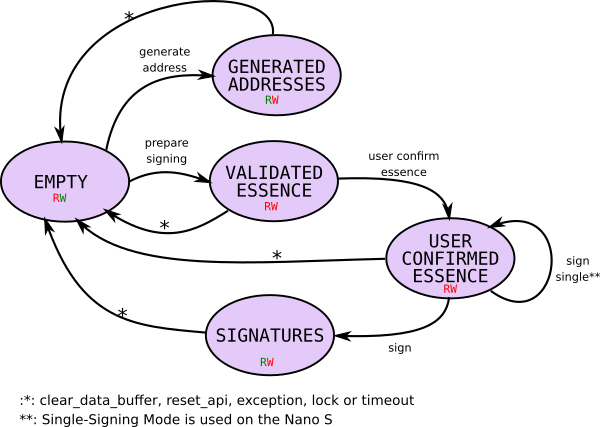
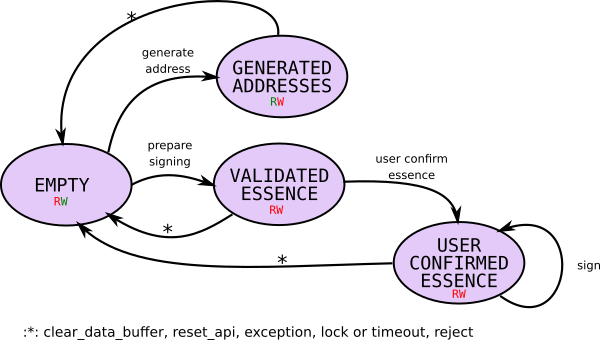
updated APDU specification

diff --git a/docs/specification_chrysalis.md b/docs/specification_chrysalis.md
@@ -1,4 +1,4 @@
-# IOTA Chrysalis App for Ledger Nano S/X Hardware Wallets
+# IOTA Chrysalis/Stardust App for Ledger Nano S(+)/X Hardware Wallets
 
 ## Date Buffer States
 
@@ -68,9 +68,16 @@ Returns information about the App and the Device.
 | `app_version_major` | 1 | Major version number  |  
 | `app_version_minor` | 1 | Minor version number  |  
 | `app_version_patch` | 1 | Patch level  | 
-| `app_flags` | 1 | unused  | 
-| `device` | 1 | 0: Nano S <br />1: Nano X |
+| `app_flags` | 1 | Flags  | 
+| `device` | 1 | 0: Nano S <br />1: Nano X <br/> 2: Nano S Plus |
 | `debug`| 1 | 0: Not compiled in debug mode<br /> 1: compiled in debug mode|
+
+Flags:
+| Bit | Function |
+|-----|----------|
+| 0 | Ledger locked |
+| 1 | Blindsigning enabled (only Stardust) |
+| 2 | App (0: IOTA, 1: Shimmer) |
 
 **Errors**: \-
 
@@ -91,6 +98,16 @@ All private keys are derived from the bip32-path `2c'/107a'/address'/change'/ind
 | Field | Bytes | Description |
 |-------------------|---|---|
 | `account` | 4 | Hardened BIP32 account index  |  
+| `p1` | 1 | App mode |
+
+App-Mode:
+
+| Mode | Coin Type | Function |
+|-|-|-|
+| 0x00 | 0x107a | IOTA + Chrysalis (default, backwards compatible) |
+| 0x80 |    0x1 | IOTA + Chrysalis Testnet |
+| 0x01 | 0x107a | IOTA + Stardust |
+| 0x81 |    0x1 | IOTA + Stardust Testnet |
 
 **Response**: \-
 
@@ -174,7 +191,7 @@ Reads a block of data from the data buffer. Reading only is allowed if the data 
 
 | Parameter | Description |
 |-------|-------------|
-|`p0` | number of block to be read
+|`p1` | number of block to be read
 
 
 **Request**: \-
@@ -225,7 +242,7 @@ Shows a flow on the UI. This instruction is for showing informative screens on t
 
 | Parameter | Description |
 |-------|-------------|
-|`p0` | 0: `FLOW_MAIN_MENU` <br/> 1: `FLOW_GENERATING_ADDRESSES` <br/> 2: `FLOW_GENERIC_ERROR` <br/> 3: `FLOW_REJECTED` <br/> 4: `FLOW_SIGNED_SUCCESSFULLY` <br/> 5: `FLOW_SIGNING`
+|`p1` | 0: `FLOW_MAIN_MENU` <br/> 1: `FLOW_GENERATING_ADDRESSES` <br/> 2: `FLOW_GENERIC_ERROR` <br/> 3: `FLOW_REJECTED` <br/> 4: `FLOW_SIGNED_SUCCESSFULLY` <br/> 5: `FLOW_SIGNING`
 
 
 **Request**: \-
@@ -241,7 +258,7 @@ Shows a flow on the UI. This instruction is for showing informative screens on t
 ---
 #### 0xa0 - Prepare Signing
 
-Prepare signing in single-signing or normal signing mode. The former should be used for the Nano S (needs less memory), the latter should be used for the Nano X (is faster). It is not enforced to use the one or another depending on the device the app is compiled for. 
+Prepare signing parses and validates the uploaded essence for a following signing call.
 
 In additionally to the essence also an array of input BIP32 indices (consisting of 32bit BIP32-index and 32bit BIP32-Change per input) is needed. The size of the essence is determined by the data and is calculated during validation. The array of input indices is directly appended after.  
 
@@ -253,8 +270,8 @@ In additionally to the essence also an array of input BIP32 indices (consisting 
 
 | Parameter | Description |
 |-------|-------------|
-|`p0` | 0: not prepare for single signing<br/>1: prepare for single signing
-|`p1` | 0: Essence doesn't have an Remainder<br/>1: Essence has an Remainder
+|`p1` | (set to 1, compatibility)
+|`p2` | 0: Essence doesn't have an Remainder<br/>1: Essence has an Remainder
 
 **Request**: 
 
@@ -280,7 +297,7 @@ In additionally to the essence also an array of input BIP32 indices (consisting 
 ---
 #### 0xa1 - Generate Address
 
-Generates addresses. If `p0` is set, the new address is shown to the user on the UI. In this mode, the data buffer states switches to `GENERATED_ADDRESSES` when the user confirmed the new address and only one single address is allowed to generate (for Remainder addresses). 
+Generates addresses. If `p1` is set, the new address is shown to the user on the UI. In this mode, the data buffer states switches to `GENERATED_ADDRESSES` when the user confirmed the new address and only one single address is allowed to generate (for Remainder addresses). 
 
 The addresses are saved (including the ED25519 address type) in the data buffer one after another.
 
@@ -292,7 +309,7 @@ The addresses are saved (including the ED25519 address type) in the data buffer 
 
 | Parameter | Description |
 |-------|-------------|
-|`p0` | 0: don't show to the user as interactive flow<br/>1: show to the user as interactive flow (for Remainders).
+|`p1` | 0: don't show to the user as interactive flow<br/>1: show to the user as interactive flow (for Remainders).
 
 **Request**: 
 
@@ -314,29 +331,6 @@ The addresses are saved (including the ED25519 address type) in the data buffer 
 |`SW_INCORRECT_LENGTH`| request data has unexpected size
 |`SW_COMMAND_INVALID_DATA`|too many addresses to generate, `show_on_screen` set but more than one address to generate, invalid BIP32 index or BIP32 index would wrap around during generation|
 |`SW_COMMAND_TIMEOUT`| Timeout happened in interactive mode
-
----
-#### 0xa2 - Sign
-
-Sign the essence in normal signing mode. In this mode, the signatures are temporarily appended at the end of the input indices in the data buffer but are copied to the start of the data buffer after signing. This is faster (less API calls) but needs more RAM and only is recommended for the Nano X. The Nano S should use single signing mode. 
-
-
-**Preconditions**: `USER_CONFIRMED_ESSENCE`
-
-**After**: `SIGNATURES`
-
-**Parameters**: \-
-
-**Request**: \-
-
-**Response**: \-
-
-**Errors**: 
-
-| Error | Description |
-|-------|-------------|
-|`SW_COMMAND_NOT_ALLOWED`|data buffer state is not `USER_CONFIRMED_ESSENCE`.|
-|`SW_UNKNOWN`|some basic validation checks failed although validated prior by `Prepare Signing` or there was an unknown error during signing
 
 ---
 #### 0xa3 - User Confirm Essence
@@ -365,7 +359,8 @@ Presents the validated and parsed essence in clear way on the UI and asks the us
 ---
 #### 0xa4 - Sign Single
 
-Signs a single input and returns the signature in the APDU buffer.
+Signs a single input and returns the signature in the APDU buffer. 
+
 
 **Preconditions**: `USER_CONFIRMED_ESSENCE`
 
@@ -375,7 +370,7 @@ Signs a single input and returns the signature in the APDU buffer.
 
 | Parameter | Description |
 |-------|-------------|
-|`p0` | Index of input to sign
+|`p1` | Index of input to sign
 
 **Request**: \-
 
@@ -431,7 +426,7 @@ This command can be useful to verify how much stack in the device is used.
 
 | Parameter | Description |
 |-------|-------------|
-|`p0` | Number of page to dump
+|`p1` | Number of page to dump
 
 **Request**: \-
 
@@ -458,7 +453,7 @@ This command only is available in debug mode.
 
 | Parameter | Description |
 |-------|-------------|
-|`p0` | 0: Non-Interactive Mode disabled <br/>1: Non-Interactive Mode enabled
+|`p1` | 0: Non-Interactive Mode disabled <br/>1: Non-Interactive Mode enabled
 
 **Request**: \-
 
